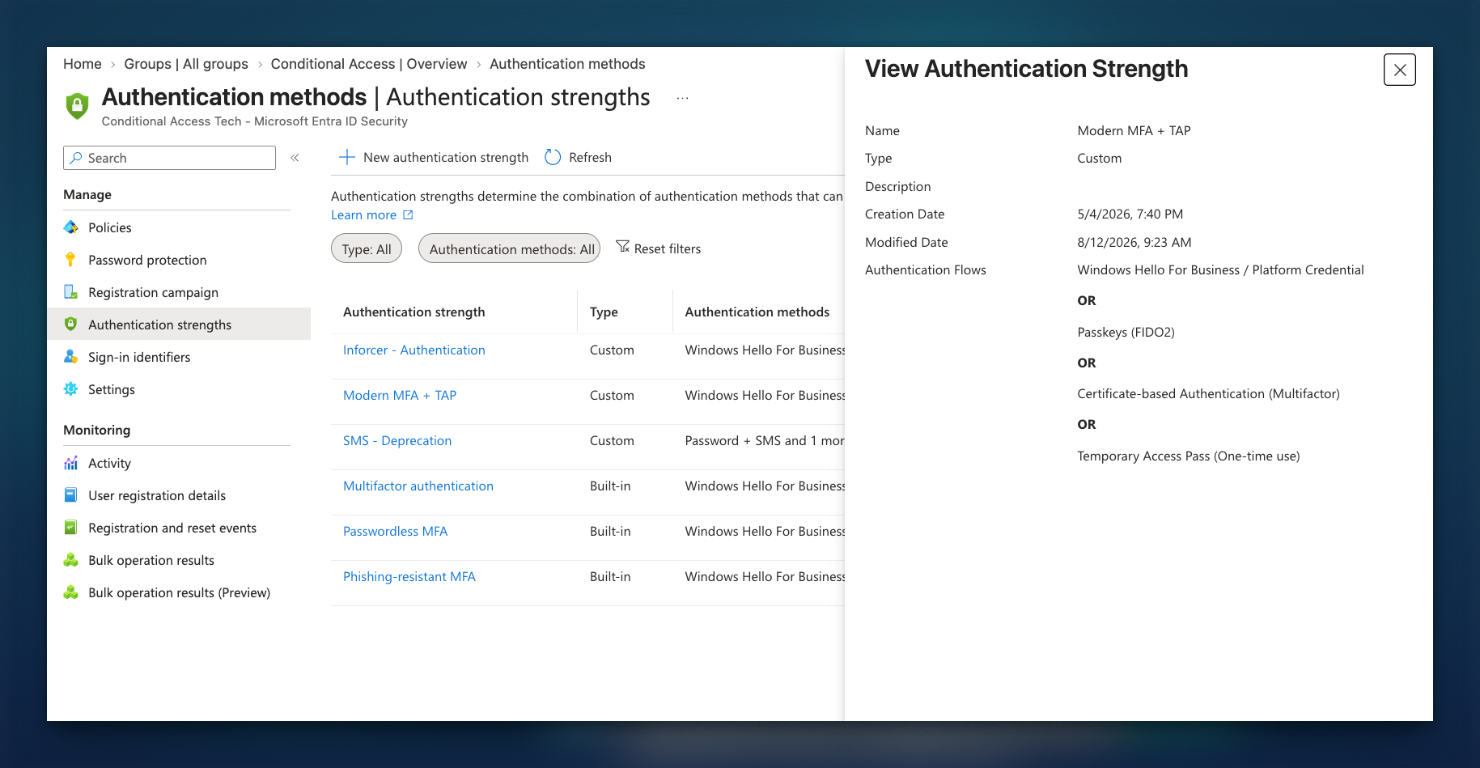
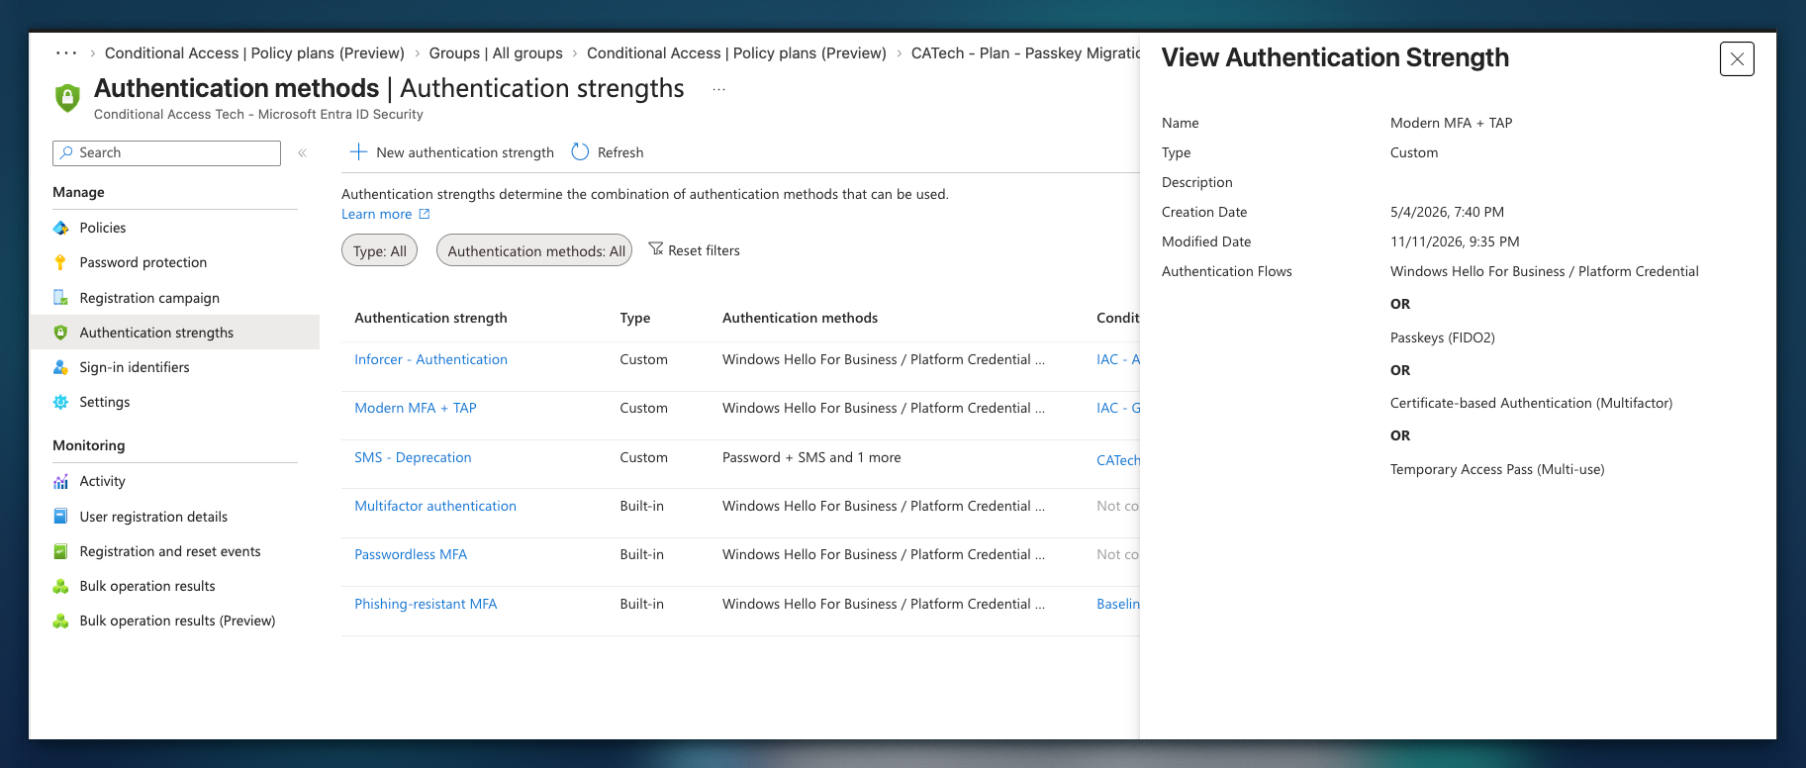
update: correct passkey TAP strength screenshot

diff --git a/articles/entra/Passkey/conditionalaccess-passkey-migration-guide.html b/articles/entra/Passkey/conditionalaccess-passkey-migration-guide.html
@@ -480,8 +480,8 @@ SigninLogs
   <p>The built-in <strong>Phishing-resistant MFA</strong> strength accepts FIDO2 security keys, Windows Hello for Business or platform credentials, and certificate-based authentication (multifactor). Both synced and device-bound passkeys fall under FIDO2. On managed Windows devices, Windows Hello for Business can satisfy the strength; on Macs, a qualifying platform credential can also satisfy it. Test the actual Platform SSO configuration and sign-in claims. A policy named “passkey” does not mean every successful user signed in with a passkey.</p>
   <div class="callout warn"><span class="lbl">Profiles decide passkey type</span>Conditional Access and a PIM authentication context can require a strength, but the normal FIDO2 strength does not distinguish synced from device-bound. A synced passkey can produce the <span class="mono">fido</span> authentication-method reference in a token; that value alone does not prove the credential was device-bound. If a user has both types and both remain allowed by their profiles, either can satisfy phishing-resistant MFA. Apply and test the device-bound profile without a synced-enabled overlap for users who require it.</div>
   <p>Custom strengths can restrict FIDO2 to selected AAGUIDs for a resource, but an AAGUID identifies an authenticator or provider, not a general device-bound-versus-synced claim. An unverified AAGUID is not a strict security boundary. Use profile settings and attestation where supported, review existing registrations and test both types rather than assuming a custom strength or PIM context enforces key storage.</p>
-  <figure class="shot"><img src="conditionalaccess-passkey-authentication-strength.png" alt="Custom Modern MFA plus TAP authentication strength allowing Windows Hello for Business or platform credential, passkeys, multifactor certificate-based authentication, or a one-time Temporary Access Pass" width="1480" height="768" loading="lazy"><figcaption>My Modern MFA + TAP custom strength accepts any one of these alternatives, including a one-time TAP. It does not distinguish device-bound from synced passkeys.</figcaption></figure>
-  <p>The pictured custom strength includes a one-time TAP alongside phishing-resistant methods. That makes TAP a deliberate bootstrap exception, not phishing-resistant MFA itself. If this strength is used for All resources, TAP can also grant app access while valid. Scope it deliberately, use short lifetimes and test it alongside other applicable policies. Use the built-in phishing-resistant strength where that exception is not wanted.</p>
+  <figure class="shot"><img src="conditionalaccess-passkey-authentication-strength.png?v=2" alt="Custom Modern MFA plus TAP authentication strength allowing Windows Hello for Business or platform credential, passkeys, multifactor certificate-based authentication, or a multi-use Temporary Access Pass" width="1806" height="768" loading="lazy"><figcaption>My Modern MFA + TAP custom strength accepts any one of these alternatives, including a multi-use TAP. It does not distinguish device-bound from synced passkeys.</figcaption></figure>
+  <p>The pictured custom strength includes a multi-use TAP alongside phishing-resistant methods. That makes TAP a deliberate bootstrap exception, not phishing-resistant MFA itself. If this strength is used for All resources, TAP can also grant app access while valid. Scope it deliberately, use short lifetimes and test it alongside other applicable policies. Use the built-in phishing-resistant strength where that exception is not wanted.</p>
   <p>Conditional Access evaluates the strength after initial authentication. If a user signs in to Windows with a password, Windows Hello for Business is not the primary sign-in claim and cannot simply be prompted as a second factor. Microsoft says to restart the session, choose <strong>Sign-in options</strong> and use a method the strength accepts. For a Windows Hello for Business sign-in, choose the PIN or biometrics. Include password-started Windows sessions in report-only testing; do not assume unlocking alone replaces the original sign-in claim.</p>
   <h3>Prefer the strongest method, then remove weaker options</h3>
   <p>Check system-preferred authentication and its scope for the users in your pilot. The default, <strong>Microsoft managed</strong>, applies to first and second factors; the explicit <strong>Enabled</strong> setting applies to the second factor only. The goal is to prompt with the strongest applicable registered method, but availability depends on the device and browser, and users can choose another allowed method. Preferred does not remove that choice.</p>
